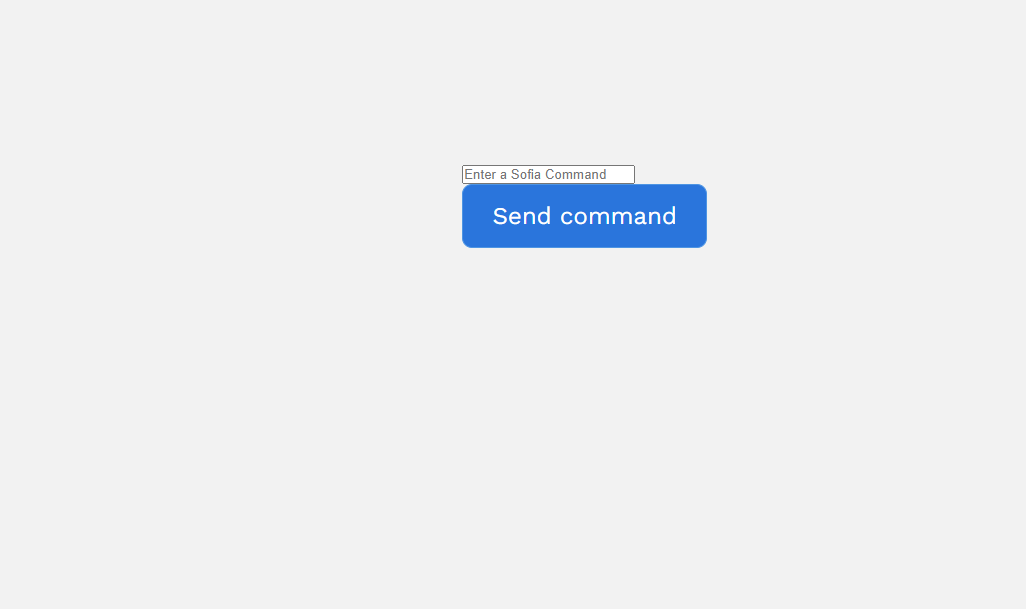
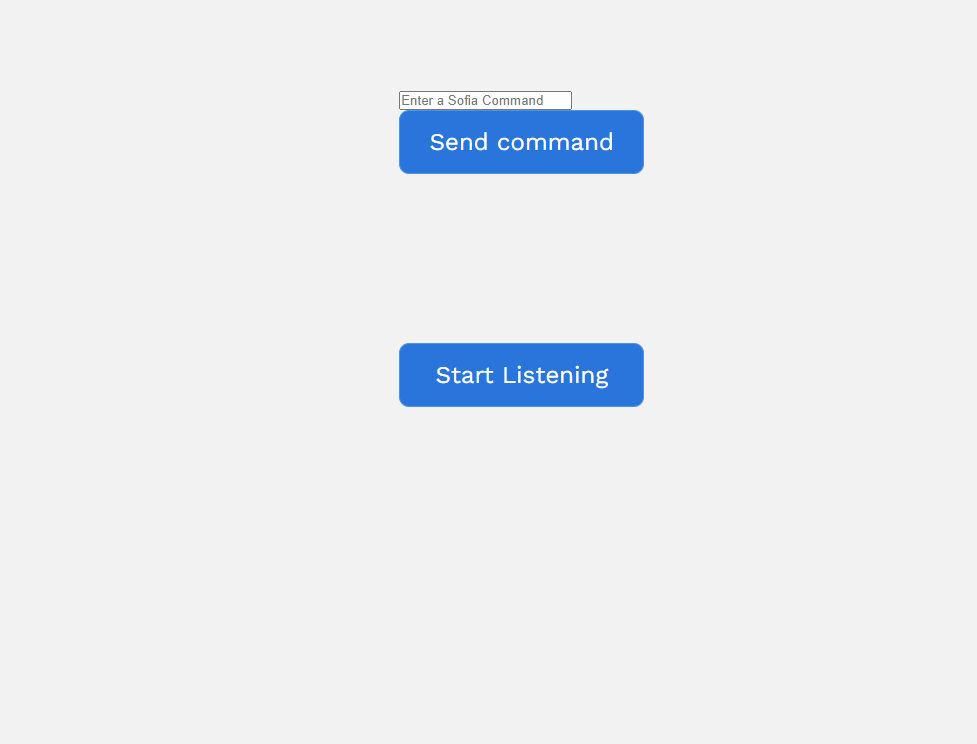
make it better

Changed region(s): [[0.3992, 0.0936, 0.6755, 0.2496], [0.4299, 0.2808, 0.7062, 0.4056], [0.3992, 0.4368, 0.6755, 0.5616]]

diff --git a/templates/silent_sofia.html b/templates/silent_sofia.html
@@ -23,18 +23,40 @@
       "
     >
       <form method="post">
-        <input type="text" id="input-box" name="command" placeholder="Enter a Sofia Command" />
+        <input
+          type="text"
+          id="input-box"
+          name="command"
+          placeholder="Enter a Sofia Command"
+        />
         <a>
           <button class="btn primary-btn" type="submit">Send command</button>
         </a>
       </form>
-      <a href="/listening">
-        <button class="btn primary-btn" >Start Listening</button>
+      <a href="/listening" id="listening-btn">
+        <button class="btn primary-btn">Start Listening</button>
       </a>
     </div>
     <script>
-      const inputBox = document.querySelector("#input-box")
-      inputBox.focus()
+      // get all the DOM elements required
+      const inputBox = document.querySelector("#input-box");
+      const listeningBtn = document.querySelector("#listening-btn");
+
+      inputBox.focus();
+
+      // store the sequence of keys pressed by the user
+      let sequenceOfKeys = [];
+      window.onkeydown = (e) => {
+        sequenceOfKeys.push(e.key);
+        if (sequenceOfKeys.length > 2) {
+          sequenceOfKeys = [];
+        }
+        if (sequenceOfKeys.includes("Control") && sequenceOfKeys.includes("l")) {
+          // if the sequence matches the desired click the listening btn
+          console.log("clicked");
+          listeningBtn.click();
+        }
+      };
     </script>
   </body>
 </html>

diff --git a/Context/speaker.py b/Context/speaker.py
@@ -64,7 +64,7 @@ class SoftwareInteligenzaArtificiale(object):
     def move_resource(self, source_path: str, destination_path: str):
         os.rename(source_path, destination_path)
 
-    def listen_to_command(self, listener: speech_recognition.Recognizer, default_command: str):
+    def listen_to_command(self, listener: speech_recognition.Recognizer):
         with speech_recognition.Microphone() as source:
             voice = listener.listen(source)
             command = listener.recognize_google(voice)
@@ -492,9 +492,7 @@ class SoftwareInteligenzaArtificiale(object):
 
     def start_listening(self, listener: speech_recognition.Recognizer, engine: pyttsx3.engine):
         try:
-            time.sleep(1)
-            command = self.listen_to_command(
-                listener, 'Listening')
+            command = self.listen_to_command(listener)
             print(f"\n COMMAND {command}  \n")
             self.run_context(command)
         except speech_recognition.UnknownValueError:

diff --git a/app.py b/app.py
@@ -17,10 +17,11 @@ def home():
 @app.route('/listening')
 def listen():
     listener = Recognizer()
+    audio_engine = SoftwareInteligenzaArtificiale()
     engine = pyttsx3.init()
+    
     engine.say('      I am listening')
     engine.runAndWait()
-    audio_engine = SoftwareInteligenzaArtificiale()
     audio_engine.start_listening(listener, engine)
     return redirect('/')
 
